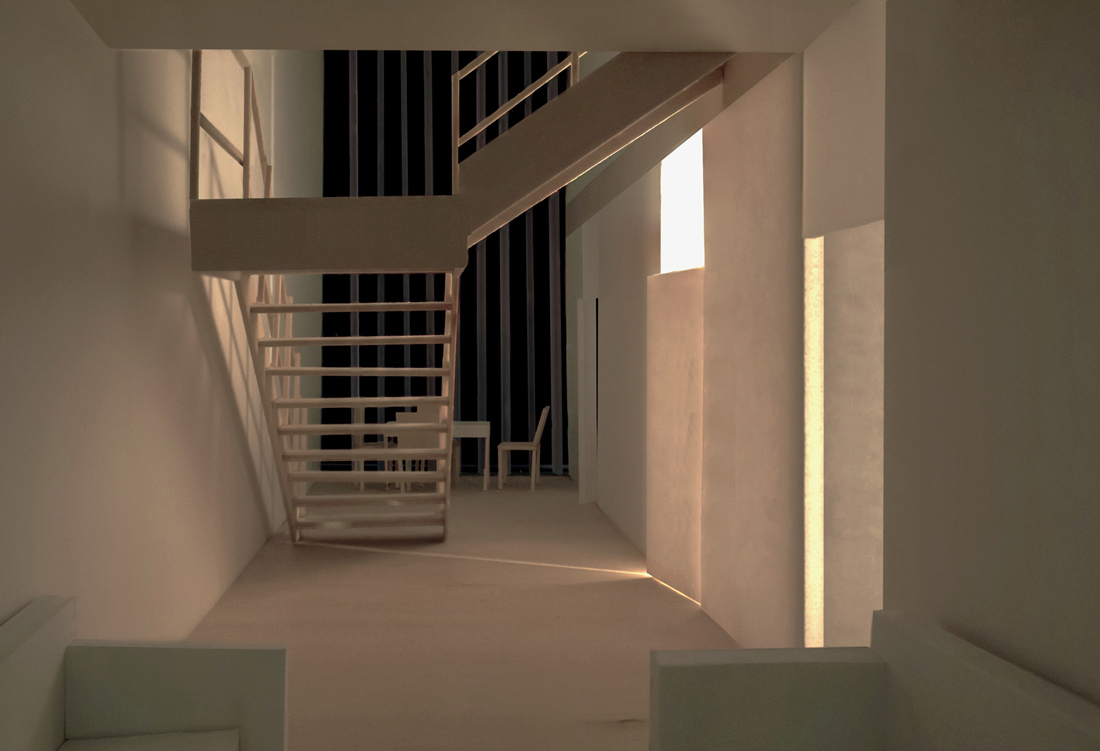
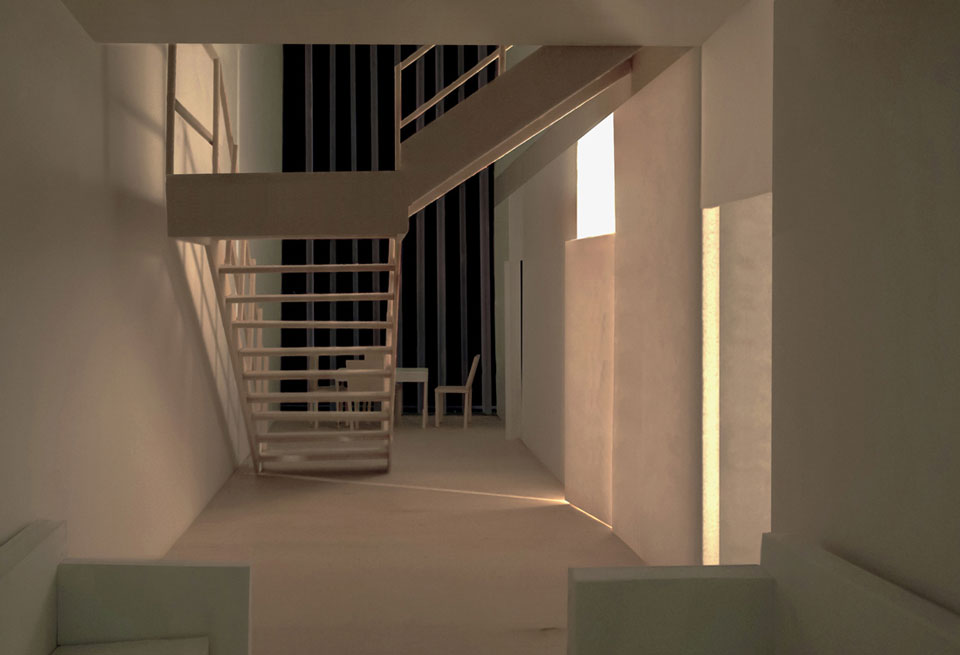
smaller file sizes

diff --git a/design-work.html b/design-work.html
@@ -36,10 +36,10 @@ permalink: /design-work/
 <section class="design-work web-design branding">
     <div class="content-wrapper row">
         <div class="col-md-4" id="trailroots">
-            <a class="chocolat-image" href="/img/design-work/websites/trailroots-homepage.png" title="foo">
-                <img src="/img/design-work/websites/trailroots-homepage.png" width="100%" class="main-image">
+            <a class="chocolat-image" href="/img/design-work/websites/trailroots-homepage.jpg" title="foo">
+                <img src="/img/design-work/websites/trailroots-homepage.jpg" width="100%" class="main-image">
             </a>
-            <a class="chocolat-image" href="/img/design-work/websites/trailroots-running.png" title="foo"></a>
+            <a class="chocolat-image" href="/img/design-work/websites/trailroots-running.jpg" title="foo"></a>
         </div>
         <div class="col-md-8">
             <h2>Trail Roots website redesign</h2>
@@ -65,11 +65,11 @@ permalink: /design-work/
                 <img src="/img/design-work/credit-donkey/3.jpg" width="100%" class="main-image">
             </a>
             <a class="chocolat-image" href="/img/design-work/credit-donkey/2.png" title=""></a>
-            <a class="chocolat-image" href="/img/design-work/credit-donkey/1.png" title=""></a>
-            <a class="chocolat-image" href="/img/design-work/credit-donkey/4.png" title=""></a>
-            <a class="chocolat-image" href="/img/design-work/credit-donkey/5.png" title=""></a>
-            <a class="chocolat-image" href="/img/design-work/credit-donkey/6.png" title=""></a>
-            <a class="chocolat-image" href="/img/design-work/credit-donkey/7.png" title=""></a>
+            <a class="chocolat-image" href="/img/design-work/credit-donkey/1.jpg" title=""></a>
+            <a class="chocolat-image" href="/img/design-work/credit-donkey/4.jpg" title=""></a>
+            <a class="chocolat-image" href="/img/design-work/credit-donkey/5.jpg" title=""></a>
+            <a class="chocolat-image" href="/img/design-work/credit-donkey/6.jpg" title=""></a>
+            <a class="chocolat-image" href="/img/design-work/credit-donkey/7.jpg" title=""></a>
         </div>
         <div class="col-md-8">
             <h2>Credit Donkey infographics</h2>
@@ -168,16 +168,16 @@ permalink: /design-work/
              by Credit Donkey where I continued my work in infographic design">
                 <img src="/img/design-work/99-designs/dui.jpg" width="100%" class="main-image">
             </a>
-            <a class="chocolat-image" href="/img/design-work/99-designs/sunsa.png" title='Competition winner for an Australian sunflower oil company looking
+            <a class="chocolat-image" href="/img/design-work/99-designs/sunsa.jpg" title='Competition winner for an Australian sunflower oil company looking
              for something that was not just "a bunch of sunflowers"'></a>
-            <a class="chocolat-image" href="/img/design-work/99-designs/boomstreet.png"></a>
+            <a class="chocolat-image" href="/img/design-work/99-designs/boomstreet.jpg"></a>
             <a class="chocolat-image" href="/img/design-work/99-designs/crossfit.png"></a>
-            <a class="chocolat-image" href="/img/design-work/99-designs/flex.png"></a>
+            <a class="chocolat-image" href="/img/design-work/99-designs/flex.jpg"></a>
             <a class="chocolat-image" href="/img/design-work/99-designs/genetics.jpg"></a>
             <a class="chocolat-image" href="/img/design-work/99-designs/milk.png"></a>
             <a class="chocolat-image" href="/img/design-work/99-designs/rampage.png"></a>
-            <a class="chocolat-image" href="/img/design-work/99-designs/wheelhouse-1.png"></a>
-            <a class="chocolat-image" href="/img/design-work/99-designs/wheelhouse-2.png"></a>
+            <a class="chocolat-image" href="/img/design-work/99-designs/wheelhouse-1.jpg"></a>
+            <a class="chocolat-image" href="/img/design-work/99-designs/wheelhouse-2.jpg"></a>
         </div>
         <div class="col-md-8">
             <h2>99 Designs competitions</h2>
